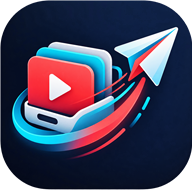
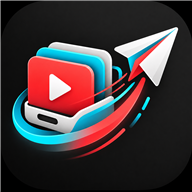
Move app rail right and adopt granite theme

diff --git a/youtube_sender/public/app.js b/youtube_sender/public/app.js
@@ -11,7 +11,7 @@ async function api(path, options = {}) {
   if (!response.ok) { const payload = await response.json().catch(() => ({})); throw new Error(payload.error || `שגיאה ${response.status}`); }
   return response.status === 204 ? null : response.json();
 }
-function toast(message, error = false) { const node = $("#toast"); node.textContent = message; node.style.background = error ? "#b42334" : "#111827"; node.classList.add("show"); setTimeout(() => node.classList.remove("show"), 3000); }
+function toast(message, error = false) { const node = $("#toast"); node.textContent = message; node.style.background = error ? "#b42334" : "#19191b"; node.classList.add("show"); setTimeout(() => node.classList.remove("show"), 3000); }
 function modal(content, wide = false) { $("#modal-root").innerHTML = `<div class="modal-backdrop"><div class="modal ${wide ? "wide" : ""}">${content}</div></div>`; $(".modal-backdrop").addEventListener("click", (event) => { if (event.target === event.currentTarget) closeModal(); }); }
 function closeModal() { $("#modal-root").innerHTML = ""; }
 function head(title, eyebrow) { $("#page-title").textContent = title; $("#eyebrow").textContent = eyebrow; }
@@ -97,4 +97,3 @@ window.addEventListener("beforeinstallprompt",(event)=>{event.preventDefault();s
 $("#install-app").onclick=async()=>{await state.installPrompt?.prompt();state.installPrompt=null;$("#install-app").hidden=true};
 if("serviceWorker" in navigator)navigator.serviceWorker.register("sw.js").catch(console.warn);
 load().catch((error)=>{$("#app").innerHTML=empty("לא הצלחנו לפתוח את האפליקציה",escapeHtml(error.message),'<br><button class="primary" onclick="location.reload()">ניסיון נוסף</button>')});
-

diff --git a/youtube_sender/public/index.html b/youtube_sender/public/index.html
@@ -2,9 +2,9 @@
 <html lang="he" dir="rtl">
 <head>
   <meta charset="utf-8"><meta name="viewport" content="width=device-width,initial-scale=1,viewport-fit=cover">
-  <meta name="theme-color" content="#111827"><meta name="description" content="ניהול חכם של הפצת סרטוני YouTube">
+  <meta name="theme-color" content="#19191b"><meta name="description" content="ניהול חכם של הפצת סרטוני YouTube">
   <link rel="manifest" href="manifest.webmanifest"><link rel="icon" href="brand-mark.svg"><link rel="apple-touch-icon" href="icon-192.png">
-  <link rel="stylesheet" href="styles.css"><title>YouTubeSender</title>
+  <link rel="stylesheet" href="styles.css"><link rel="stylesheet" href="theme-granite.css"><title>YouTubeSender</title>
 </head>
 <body>
   <div class="app-shell">
@@ -19,7 +19,7 @@
         <button data-nav="channels"><span>◉</span>ערוצים</button>
         <button data-nav="settings"><span>⚙</span>הגדרות</button>
       </nav>
-      <div class="sidebar-foot"><span class="status-dot"></span><span>המערכת פעילה</span><small>v0.1.1</small></div>
+      <div class="sidebar-foot"><span class="status-dot"></span><span>המערכת פעילה</span><small>v0.1.2</small></div>
     </aside>
     <main>
       <header class="topbar">

diff --git a/youtube_sender/public/theme-granite.css b/youtube_sender/public/theme-granite.css
@@ -1,0 +1,50 @@
+/* YouTubeSender Hebrew layout: physical right rail and neutral granite palette. */
+:root {
+  --ink: #1b1b1d;
+  --ink2: #2b2b2e;
+  --shadow: 0 10px 30px rgba(20, 20, 22, 0.08);
+}
+
+.app-shell {
+  direction: ltr;
+  grid-template-columns: 1fr 250px;
+}
+
+.sidebar {
+  grid-column: 2;
+  grid-row: 1;
+  background: #19191b;
+}
+
+main {
+  grid-column: 1;
+  grid-row: 1;
+}
+
+nav button { color: #b7b7bc; }
+nav button span { color: #d1d1d5; }
+nav button:hover,
+nav button.active { background: #2a2a2d; }
+.brand small,
+.sidebar-foot { color: #9a9aa1; }
+.sidebar-foot { border-top-color: #353538; }
+
+.hero {
+  background: linear-gradient(120deg, #171719, #303034);
+}
+
+.hero::after { border-color: rgba(255, 255, 255, 0.045); }
+.hero p { color: #c1c1c5; }
+.stat-card,
+.card { box-shadow: 0 4px 16px rgba(20, 20, 22, 0.04); }
+.modal-backdrop { background: rgba(12, 12, 13, 0.82); }
+.notification-panel { box-shadow: 0 20px 60px rgba(20, 20, 22, 0.22); }
+
+@media (max-width: 1000px) {
+  .app-shell { grid-template-columns: 1fr 76px; }
+}
+
+@media (max-width: 720px) {
+  .app-shell { display: block; }
+  .sidebar { grid-column: auto; grid-row: auto; }
+}

diff --git a/youtube_sender/public/sw.js b/youtube_sender/public/sw.js
@@ -1,6 +1,5 @@
-const CACHE = "youtube-sender-v1";
-const SHELL = ["./", "./styles.css", "./app.js", "./brand-mark.svg", "./manifest.webmanifest"];
+const CACHE = "youtube-sender-v2";
+const SHELL = ["./", "./styles.css", "./theme-granite.css", "./app.js", "./brand-mark.svg", "./manifest.webmanifest"];
 self.addEventListener("install", (event) => event.waitUntil(caches.open(CACHE).then((cache) => cache.addAll(SHELL)).then(() => self.skipWaiting())));
 self.addEventListener("activate", (event) => event.waitUntil(caches.keys().then((keys) => Promise.all(keys.filter((key) => key !== CACHE).map((key) => caches.delete(key)))).then(() => self.clients.claim())));
 self.addEventListener("fetch", (event) => { if (event.request.method !== "GET" || new URL(event.request.url).pathname.includes("/api/")) return; event.respondWith(fetch(event.request).then((response) => { const clone = response.clone(); caches.open(CACHE).then((cache) => cache.put(event.request, clone)); return response; }).catch(() => caches.match(event.request).then((cached) => cached || caches.match("./")))); });
-

diff --git a/youtube_sender/server/index.js b/youtube_sender/server/index.js
@@ -88,7 +88,7 @@ async function staticFile(req, res, pathname) {
 
 const server = http.createServer(async (req, res) => {
   const url = new URL(req.url, "http://localhost");
-  if (url.pathname === "/health") return json(res, 200, { status: "ok", version: "0.1.1", time: now() });
+  if (url.pathname === "/health") return json(res, 200, { status: "ok", version: "0.1.2", time: now() });
   try {
     for (const item of routes) { const match = url.pathname.match(item.pattern); if (req.method === item.method && match) return await item.handler(req, res, match, url); }
     if (url.pathname.startsWith("/api/")) return json(res, 404, { error: "הנתיב לא נמצא" });

diff --git a/youtube_sender/CHANGELOG.md b/youtube_sender/CHANGELOG.md
@@ -1,5 +1,10 @@
 # Changelog
 
+## 0.1.2
+
+- מיקום פיזי מפורש של סרגל YouTubeSender בצד ימין
+- החלפת גוני כחול־לילה בשחור ואפור גרניט ניטרליים
+
 ## 0.1.1
 
 - העברת סרגל הניווט לימין בממשק העברי
